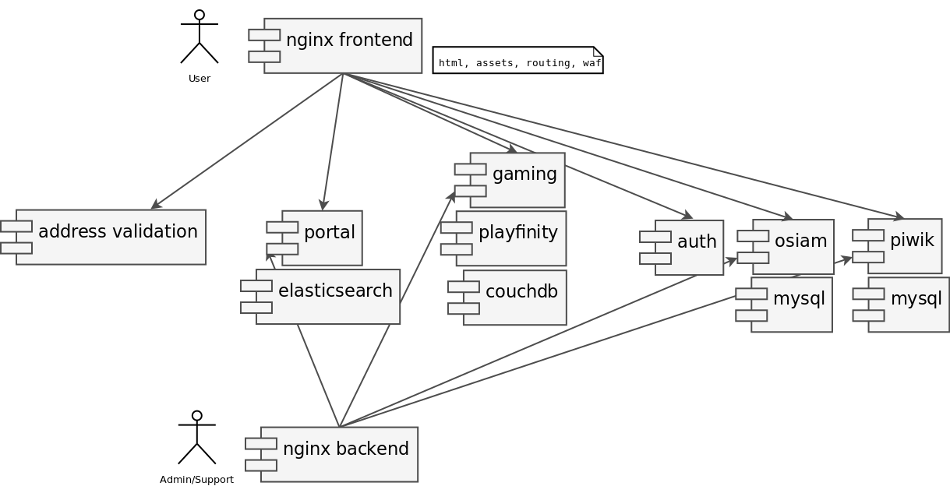
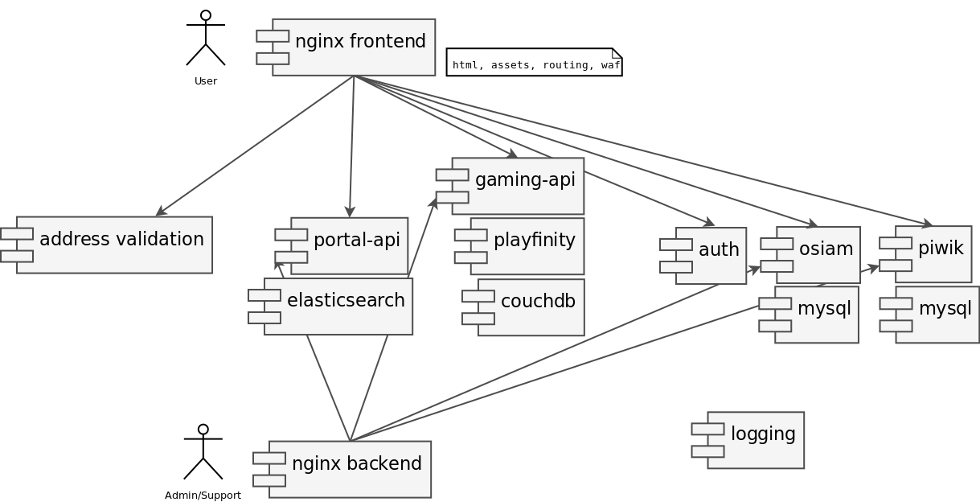
finised most slides

diff --git a/2015_froscon_docker_in_production/slide/tarent-slide.css b/2015_froscon_docker_in_production/slide/tarent-slide.css
@@ -100,7 +100,6 @@ h3 {
     margin-bottom: 8px;
 }
 
-
 @font-face {
     font-family: "SourceCodePro";
     src: url("./SourceCodePro-Light.otf.woff") format('woff');
@@ -144,10 +143,6 @@ ul li ul {
     margin-bottom: 0;
 }
 
-ul li ul li:before {
-    content: '-';
-    font-weight: 600;
-}
 
 ul ul {
     margin-top: .5em;

diff --git a/2015_froscon_docker_in_production/README.md b/2015_froscon_docker_in_production/README.md
@@ -9,7 +9,7 @@ Immutable Infrastructure
 -------------------------
 * Alles Services und Systeme werden in einem definierten Build-Prozess gebaut
 * Daten und Dienste werden klar getrennt
-* Ein Service wird nur gestartet und durch einen neuen ersetzt -> niemals verändert
+* Ein Service wird nur gestartet und durch einen neuen ersetzt → niemals verändert
 * Warum? __Vermeidung von unterschieden zwischen Entwicklung, Staging und Produktion__
 
 Unterstützung der Entwicklung
@@ -19,7 +19,16 @@ Microservices stellen nicht nur Ops vor Herausforderungen:
 
 - Entwickler müssen die Plattform in einer bestimmten Version lokal zum Laufen bringen
 - Die lokale Installation sollte der auf Produktion möglichst ähnlich sein
-- Lokal muss es möglich sein Services einfach gegen Entwicklungsversionen auszutauschen
+- Lokal muss es möglich sein
+  - Services einfach gegen Entwicklungsversionen auszutauschen
+  - Services schnell neu zu starten (<5 Sekunden)
+
+Warum nicht Vagrant?
+-----------------------
+Natürlich auch eine Option, aber häufig:
+
+- Schwerfälliger / langsamer
+- Aufwändiger alles auf eine/wenige VMs zu integrieren
 
 Voraussetzungen für Docker
 ===============================
@@ -44,9 +53,17 @@ Wann ich kein Docker einsetzen würde:
 
 ![Wahl gestrandet](images/pottwal_gestrandet.jpg)
 
-- Wenn Software-Entwicklung und Betrieb getrennt sind
+- Wenn Software-Entwicklung und Betrieb getrennt sind.
 
 - Wenn keine aktive Entwicklung der Plattform geplant ist: Einmal entwickelt und nie wieder angepackt.
+
+- Wenn schon andere ausgereifte Lösungen im Einsatz sind.
+
+Immer Docker?
+====================
+
+![Keine Ideologie](images/ideologie.png)
+
 
 Buzzerdeal.de
 =================
@@ -59,11 +76,11 @@ Casual Gaming Plattform der Deutschen Post ![Deutschen Post Logo](images/post_lo
 Herausforderungen
 =================
 
-Schnelle Entwicklung (Erstes Release nach ca. 8 Wochen)
+Schnelle Entwicklung (erstes Release nach ca. 8 Wochen).
 
-Agile inkrementelle Weiterentwicklung
+Agile ständige Weiterentwicklung.
 
-Entwicklung und Betrieb aus einer Hand
+Entwicklung und Betrieb aus einer Hand.
 
 Hohe Sicherheitsvorgaben (Deutsche Post)
 
@@ -77,7 +94,7 @@ Hohe Qualitätsansprüche:
 - Automatisierte Tests (Unit, Komponenten, UI)
 - Staging-Umgebungen:
 
-  Lokal -> Dev -> Test -> Referenz -> Produktion
+  Lokal ⇨ Test ⇨ Referenz ⇨ Produktion
 
 Herausforderungen
 ====================
@@ -100,10 +117,38 @@ Das einfachste Tool, das die Anforderungen unterstützt ohne zusätzliche komple
 
 Buzzerdeal.de - Architektur
 =============================
-Viele kleine Services und bestehende Komponenten:
+Viele kleine Services & Nginx als Router
 
 ![Buzzerdeal.de - Architektur](images/buzzerdeal_architecture.png)
 
+Rollout der Container
+=============================
+Was wir nicht brauchten:
+------------------------
+- Breite Verteilung oder dynamische Skalierung
+
+Was wir nicht wollten:
+-----------------------
+- Cloud Management tools
+- Komplexe Orchestrierung
+- docker-compose (Damals fig: zu viel dev, zu wenig prod)
+- Weiteres Config-Management (Puppet, Chef, ..)
+
+Lösung:
+-----------
+- docker deamon als service supervisor (`--restart=always`)
+- Kleines selbst geschriebenes Helferlein zum Rollout: `gig`
+
+gig
+=================
+<https://github.com/smancke/gig>
+
+- MIT License
+- Verwendet YAML-Dateien analog zu docker-compose
+- Voll über Shell-Variablen parametrisierbar 
+- Direkter Aufruf in der Entwicklung (Java)
+- Generiert ein Shell-Script für die Nutzug auf _Test_ und _Produktion_
+- ~800 loc inkl. Java + Shell
 
 gig - Kommandos
 =================
@@ -157,12 +202,6 @@ gig Config Beispiel
         MYSQL_ROOT_PASSWORD: $MYSQL_ROOT_PASSWORD_PIWIK
 
 
-
-Architektur und Routing
-=======================
-* Portvergabe (Nutzung des docker interfaces als localhost)
-* Nginx als Router
-
 Environments
 =================
 
@@ -176,7 +215,7 @@ Lösung:
 
 - Die Plattform-Beschreibung ist per Shell-Variablen konfigurierbar.
 - Die Config-Files aller Dienste sind mit Umgebungsvariablen überschreibbar
-- Von außen wird nur gesetzt, was in den Umgebungen unterschiedlich ist. Alles andere wird _hart_ konfiguriert
+- Von außen wird nur gesetzt, was in den Umgebungen unterschiedlich ist. Alles andere wird im image _hart_ konfiguriert
 
 Beispiel:
 
@@ -184,14 +223,15 @@ Beispiel:
     org.osiam.auth-server.db.username=root
     org.osiam.auth-server.db.password=${MYSQL_ROOT_PASSWORD_OSIAM}
 
-
 Lokale Entwicklung
 ====================
-* Ersetzen von Containern gegen lokal gestartete Dienste
+* Lokal können alle oder ausgewählte container gestartet werden
+* Ersetzen von Containern gegen lokal gestartete Dienste (z.B. aus der IDE)
+* Dev-Verzeichnisse können lokal in den Container gemoutet werden um Roundtrip-Zeiten zu vermeiden
 
-Base images selber bauen
-====================
-Warum eigene Images?
+Images bauen
+========================
+Base images selber bauen!
 
 - Kontrolle von Upstream Änderungen
 - Aufbau der eigenen Images auf wenige Base-Images
@@ -205,16 +245,17 @@ Versionierung
 =================
 - Wie kann ich den Source-Code-Stand eines Containers finden?
 - Auf welche Images baut mein Image auf?
-- Wie kann vermeiden, dass sich zu viele Image-Versionen ansammeln?
+- Wie kann ich vermeiden, dass sich zu viele Image-Versionen ansammeln?
 
 Way to go:
 -----------
-- Builds überschreiben immer den Stand `latest` -> Das spart Plattenplatz!
+- Builds überschreiben immer den Stand `latest` → Das spart Plattenplatz!
 - Keine Unterscheidung zwischen CI-Builds und Release-Builds.
-- Eine Version, die ausgerollt werden soll bekommt nach erfolgreichem Test ein Tag.
+- Eine Version, die ausgerollt werden soll bekommt nach erfolgreichem Test ein Tag. (`gig tag` und `gig push`)
 - Branches vermeiden (Lieber schnell vorwärts rollen und toggeln).
+- Niemand außer _Jenkins_ pushed images in die Registry!!!
 
-Versionierung - Version Files
+Version Files
 =============================
 Jeder Build legt eine Textdatei: `<imagename>.version` im Image ab:
 
@@ -236,32 +277,32 @@ Mit `gig versions` werden alle Version-Files eines Images ausgegeben:
     "tron_nginx": {
       ...
 
-
 Logging & Monitoring
 ======================
-* Log Stacks
-* Logspout
-* Cadvisor
+- Log Stacks - aktuell:
+  - Wackelig: Logspout + curl + ELK
+  - Konventionelles Sichern der Logs (gig save-logs)
+  - Umstieg auf docker native appender, z.b. fluentd + elasticsearch + kibana
+- Logspout
+  - <https://github.com/gliderlabs/logspout>
+  - Lauscht auf neue Container, stellt die Logs per HTTP zur Verfügung
+- Cadvisor
+  - <https://github.com/google/cadvisor>
 
 Health-Checks
 ==============
 Jeder Service hat http-Entpunkte `/health` und `/metrics`
 
-Abfrage und anzeige in einem Dashboard:
+Abfrage und Anzeige in einem Dashboard & shell-script & auf allen Umgebungen
 
 ![Health Checks](images/health.png)
 
 Learnings:
 =================
 * Container müssen unabhängig deploybar sein
+* Container selbst müssen schnell starten
 
 
-
-Backup Slides
+Danke
 ================
-
-Sichheit
-=================
-Wie sicher ist Docker?
-* Auf jeden Fall sicherer als ohne Docker
-* Klare Definition von Kommunikationskanälen
+[Slides auf github](https://github.com/smancke/talks/tree/master/2015_froscon_docker_in_production)
